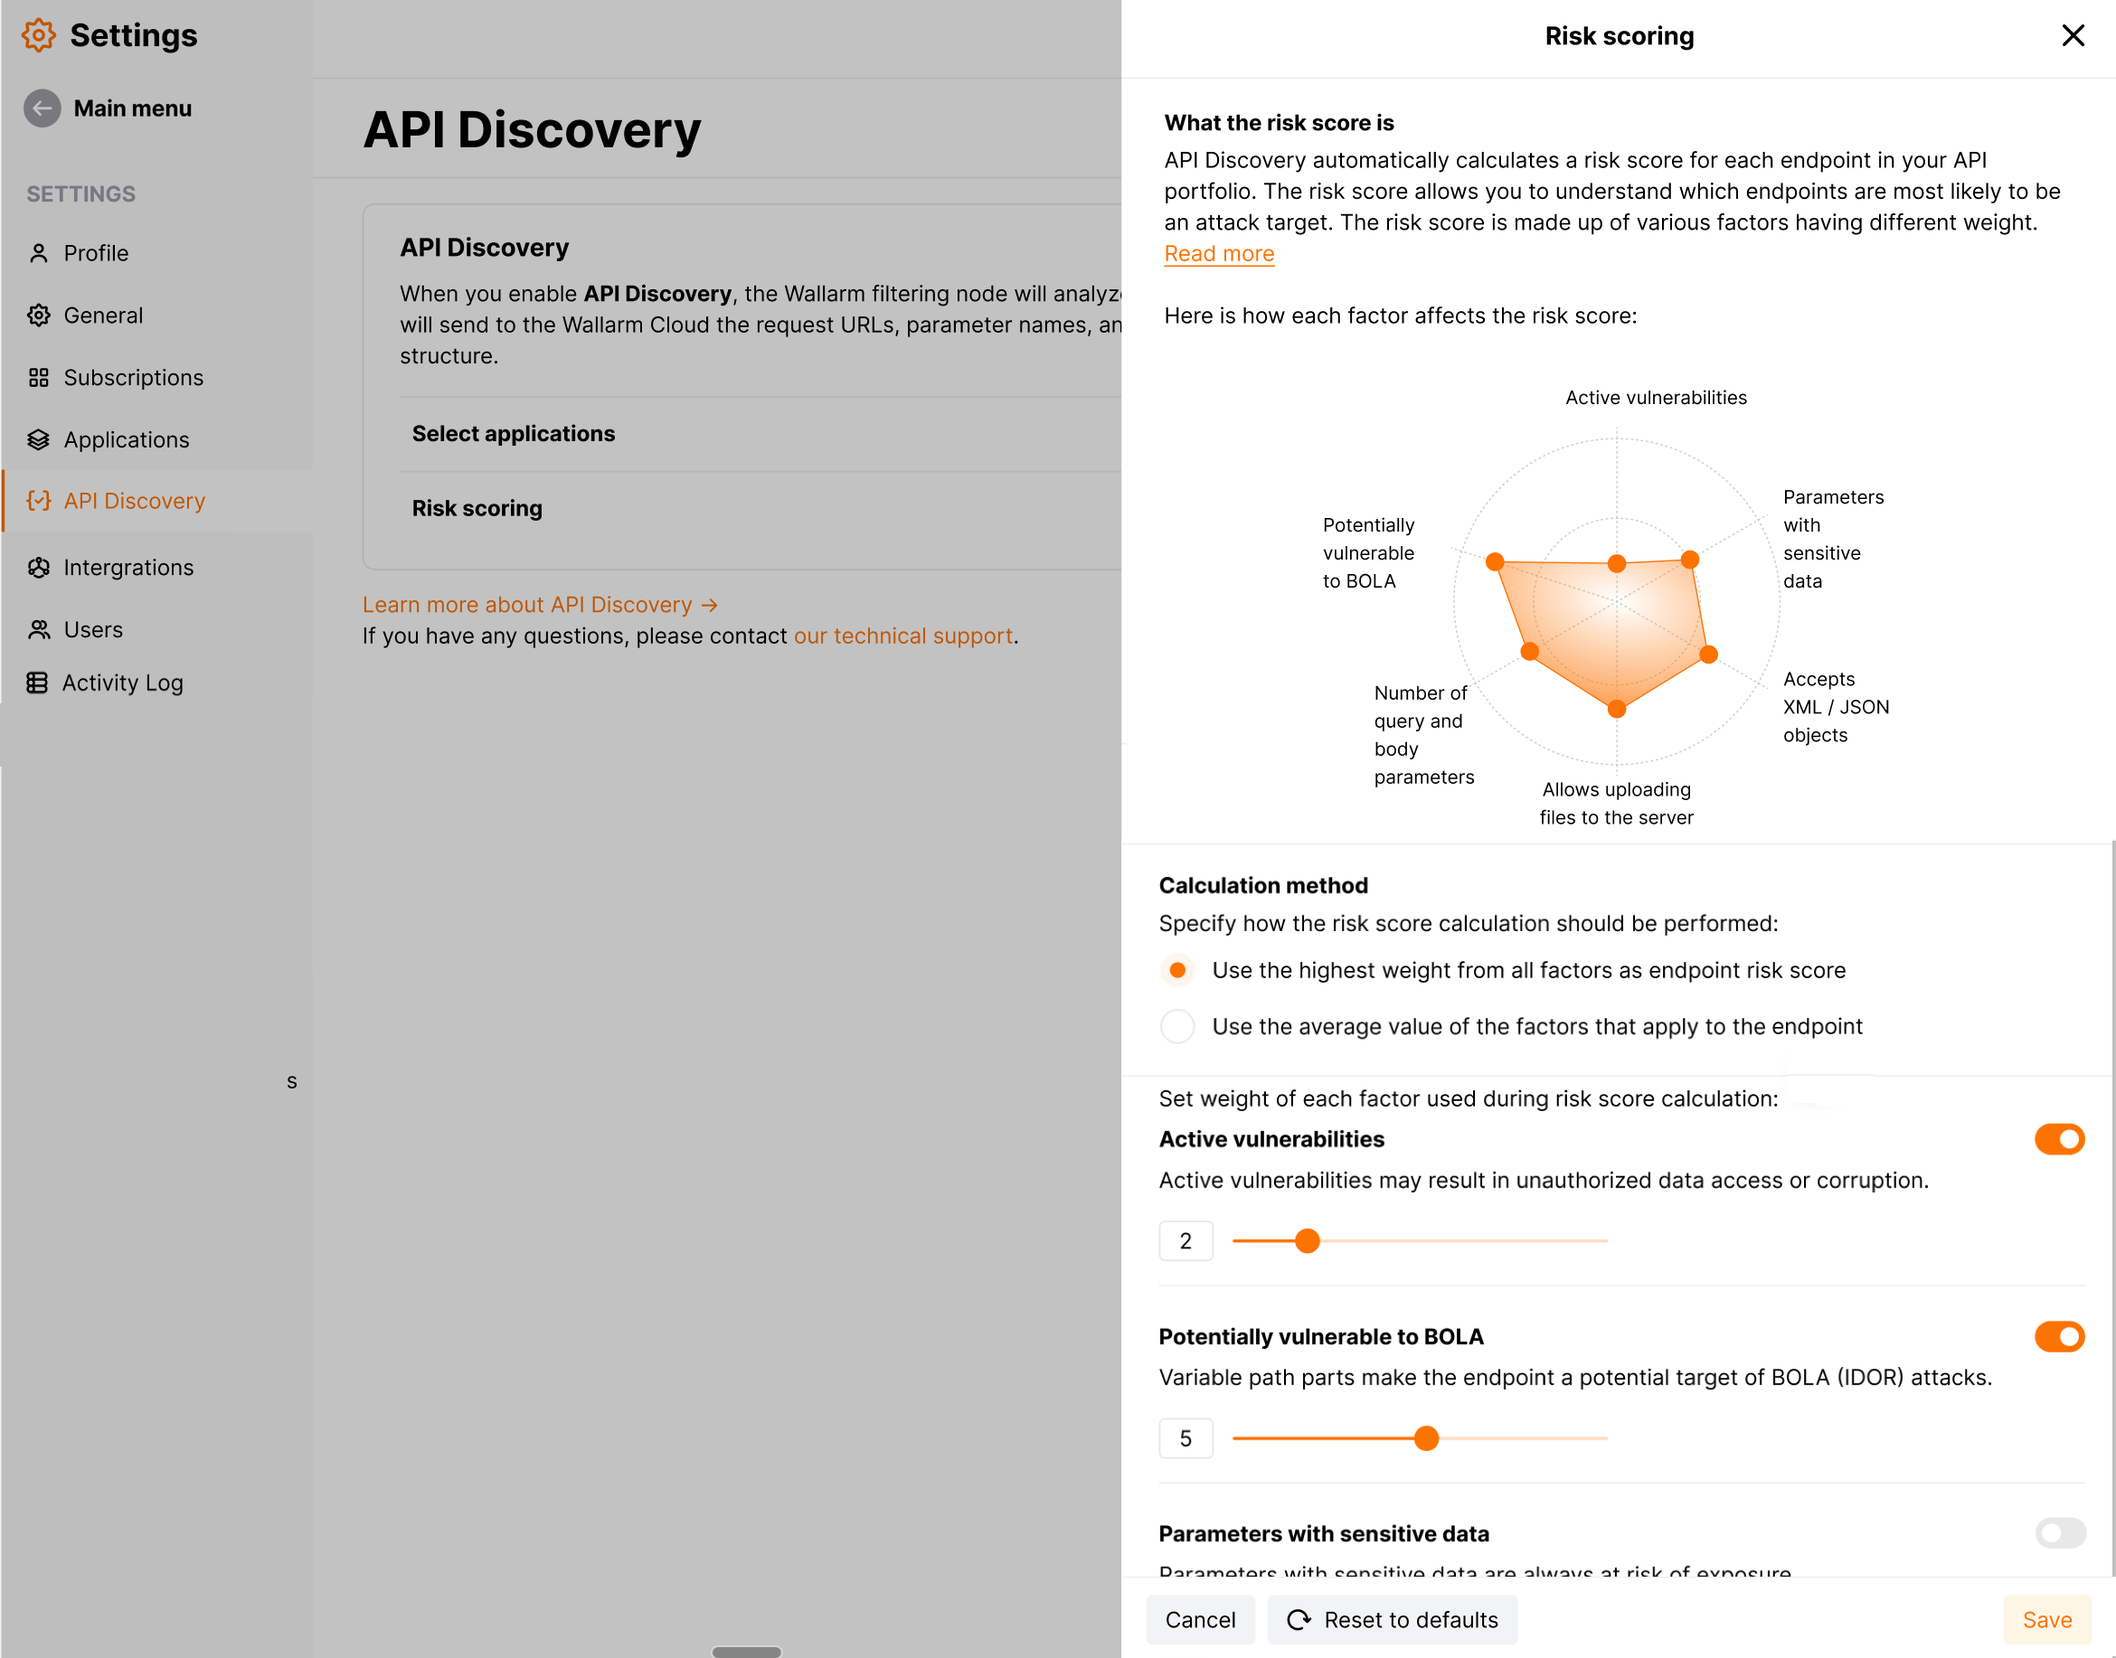
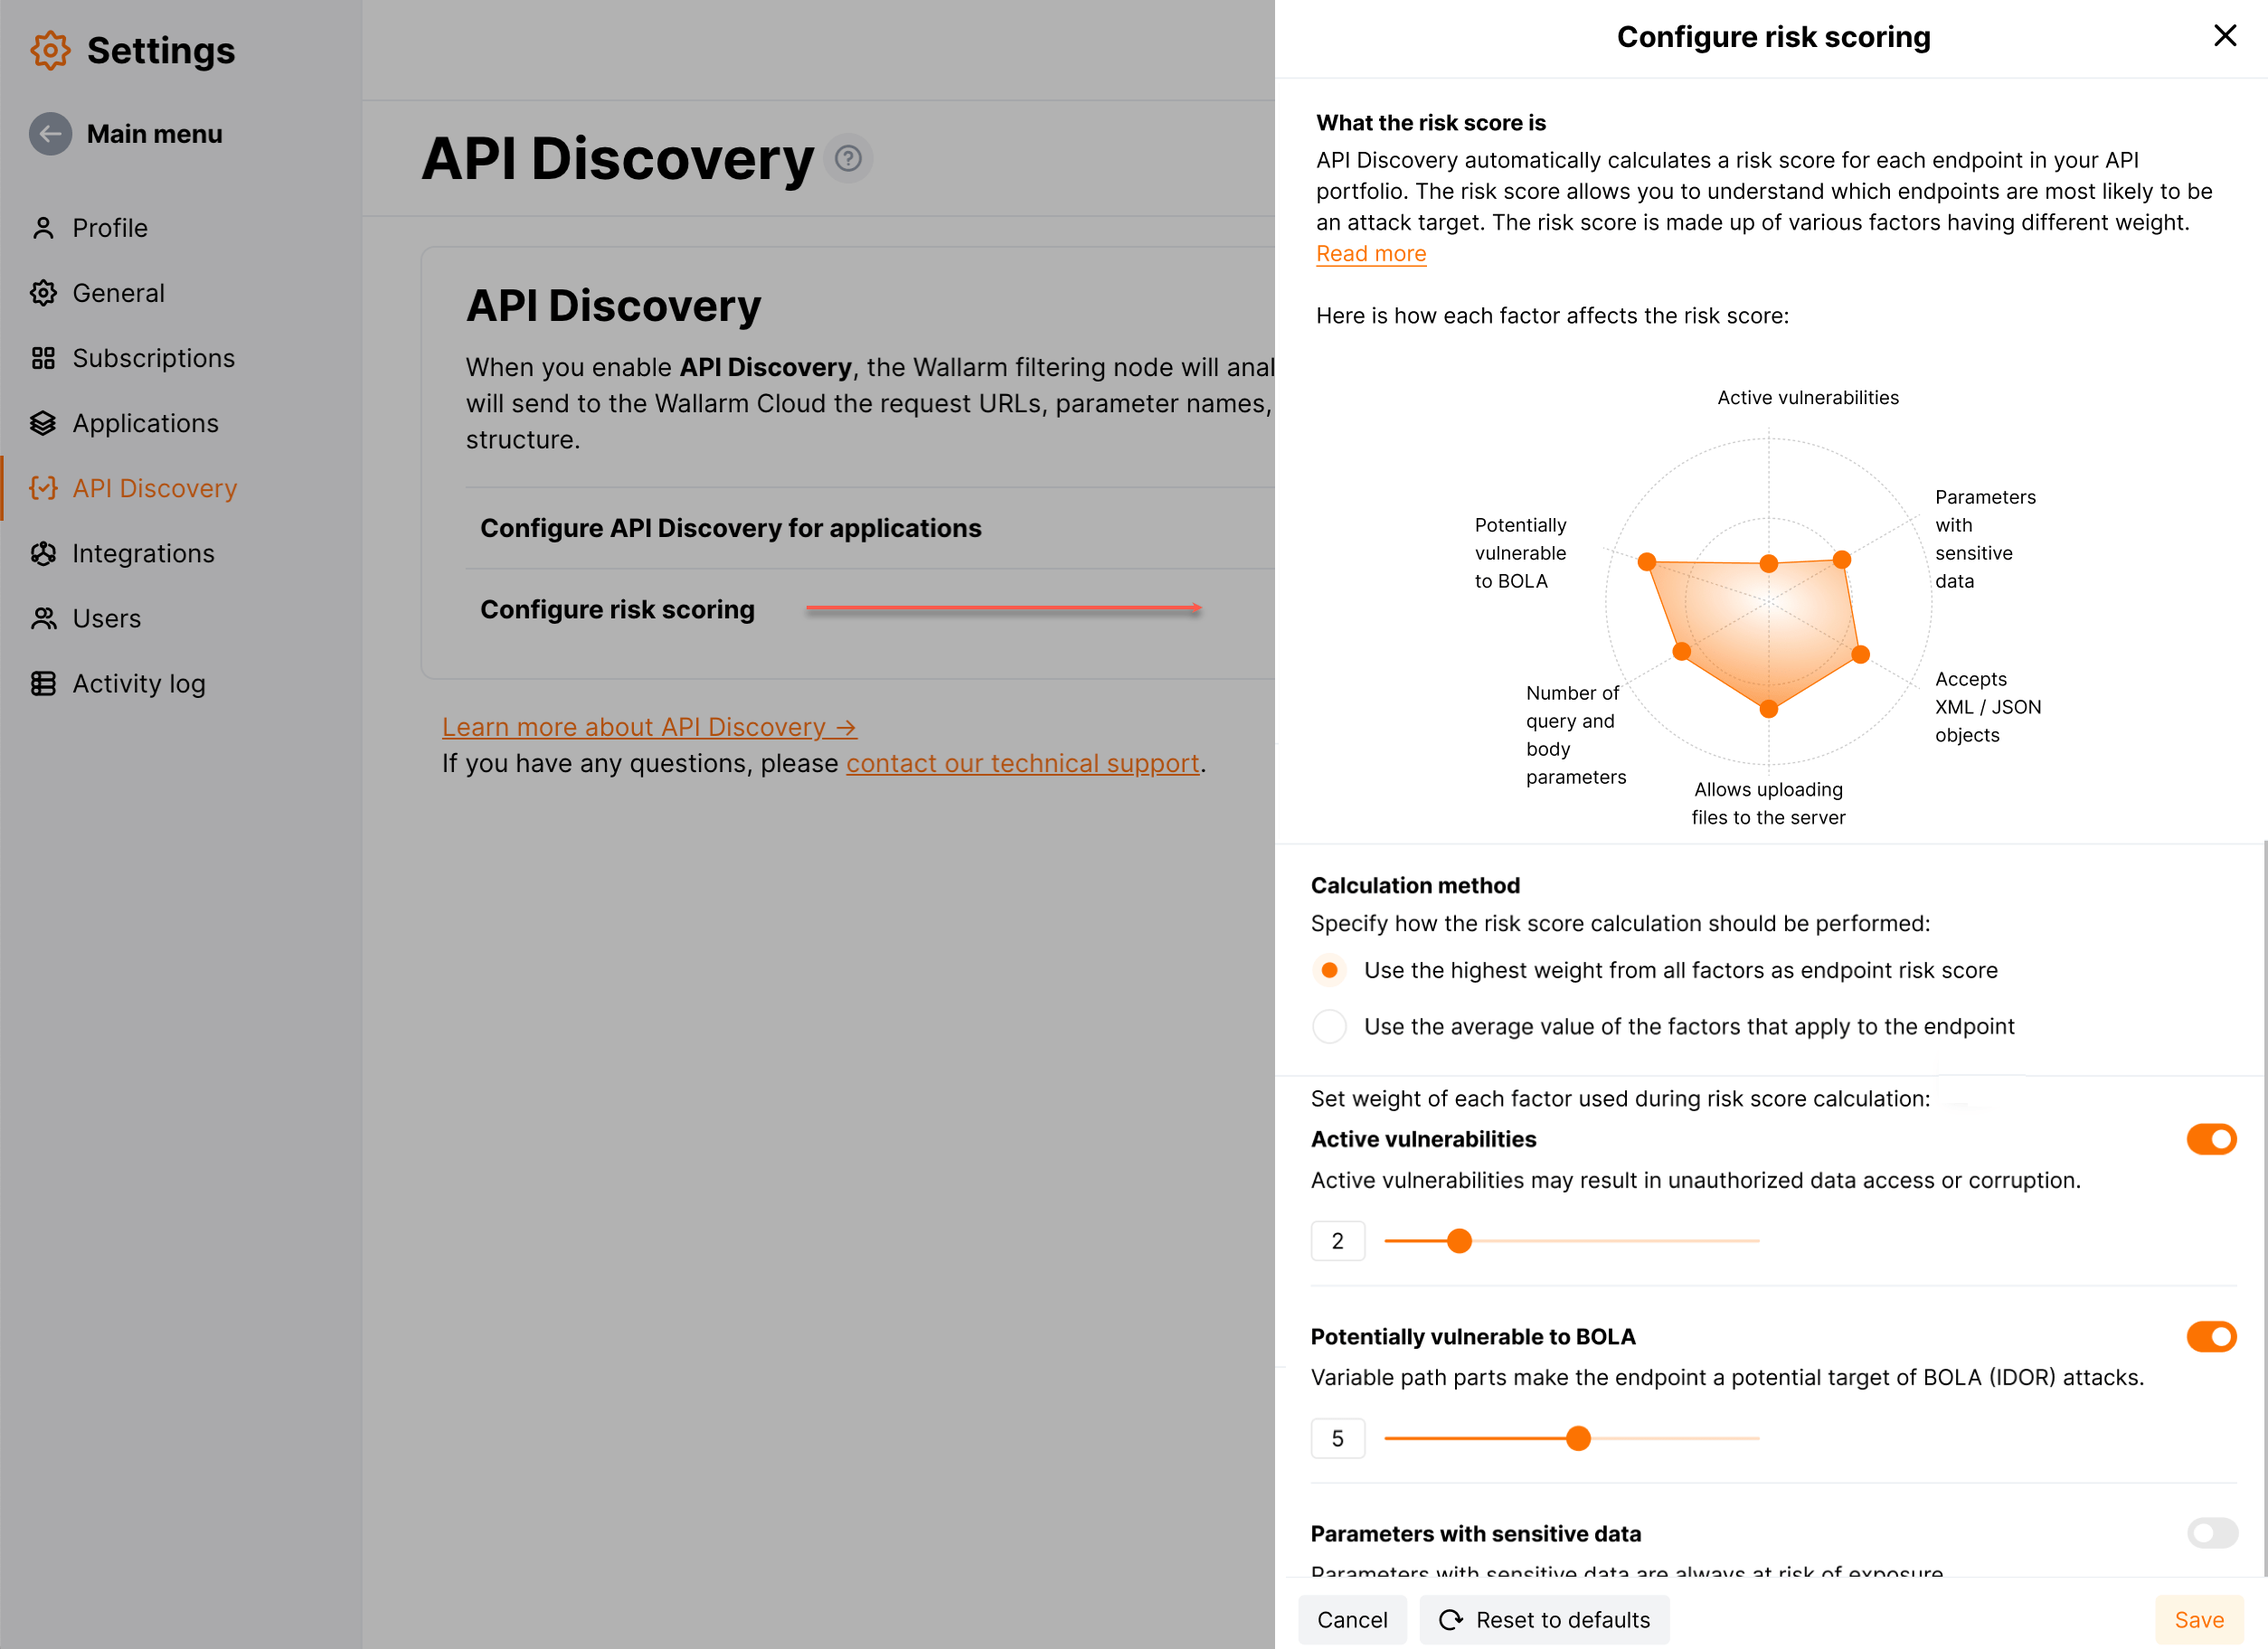
DOCS-1896 Update APID screenshots

diff --git a/docs/latest/user-guides/settings/api-discovery.md b/docs/latest/user-guides/settings/api-discovery.md
@@ -38,7 +38,7 @@ Defaults:
 
 To change how risk score is calculated: 
 
-1. Go to **Settings** → **API Discovery** → **Risk score**.
+1. Go to **Settings** → **API Discovery** → **Configure risk score**.
 1. Select calculation method: highest or average weight.
 1. If necessary, disable factors you do not want to affect a risk score.
 1. Set weight for the remaining.
